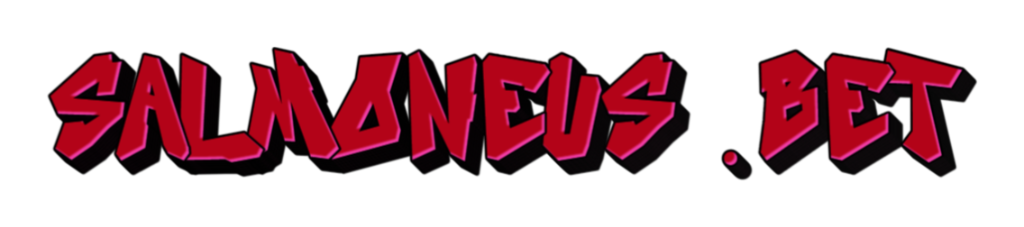
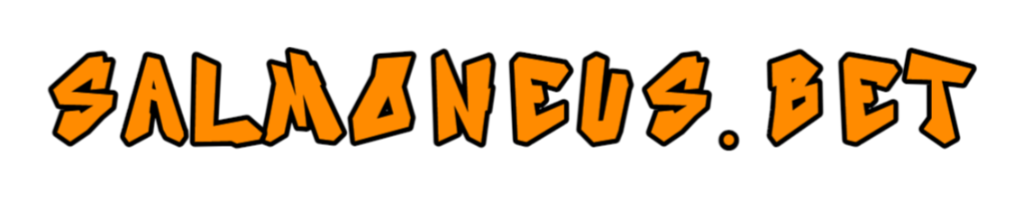
S

diff --git a/cassinos/estilos/inicio.css b/cassinos/estilos/inicio.css
@@ -33,7 +33,7 @@ menu {
 
 #abrirEntrarDireto {
                                         background-color: #0D7EFE;
-                                        padding: 3px 10px;
+                                        padding: 3px 3px;
                                         margin-right: 10px;
                                         border: none;
                                         
@@ -47,10 +47,8 @@ menu {
 
 
 .img-logo {
-                                        width: 200px;
-
+                                        width: 210px;
 }
-
 
             /* Menu inferior */
 .menu-inferior {                             
@@ -257,7 +255,7 @@ footer {
 }
 
         /*screen and (max-width: 768px)*/
-@media screen and (max-width: 768px) {
+@media screen and (max-width: 600px) {
 
     body, html {
         margin: 0px;
@@ -277,8 +275,15 @@ footer {
 }
 
 .img-logo {
-        width: 117px;
+        width: 127px;
 
+}
+
+#abrirEntrarDireto {
+
+        margin-right: 20px;
+
+        
 }
 
 .modal-conteudo {

diff --git a/cassinos/inicio.html b/cassinos/inicio.html
@@ -20,7 +20,10 @@
 
     <header class="menu-superior">
         <menu>          
-            <img src="imagens/salmoneus-logo1.png" alt="" class="img-logo">
+            <picture>
+                <source media="(max-width: 800px)" srcset="imagens/salmoneus-bet1.png">
+                <img src="imagens/salmoneus-bet.png" alt="irina-blok" class="img-logo">
+                </picture>
             <div class="link-header">
                 <button id="abrirCadastro">Cadastrar</button>
                 <button id="abrirEntrarDireto">Entrar</button>
